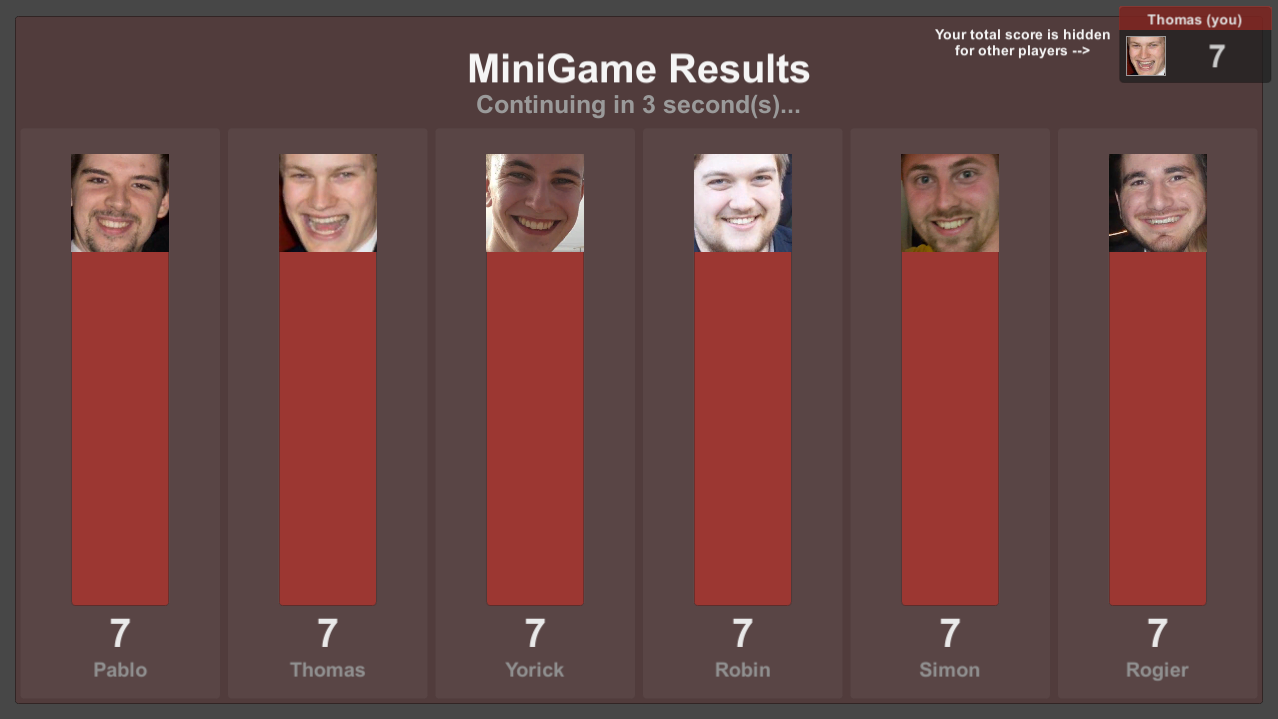
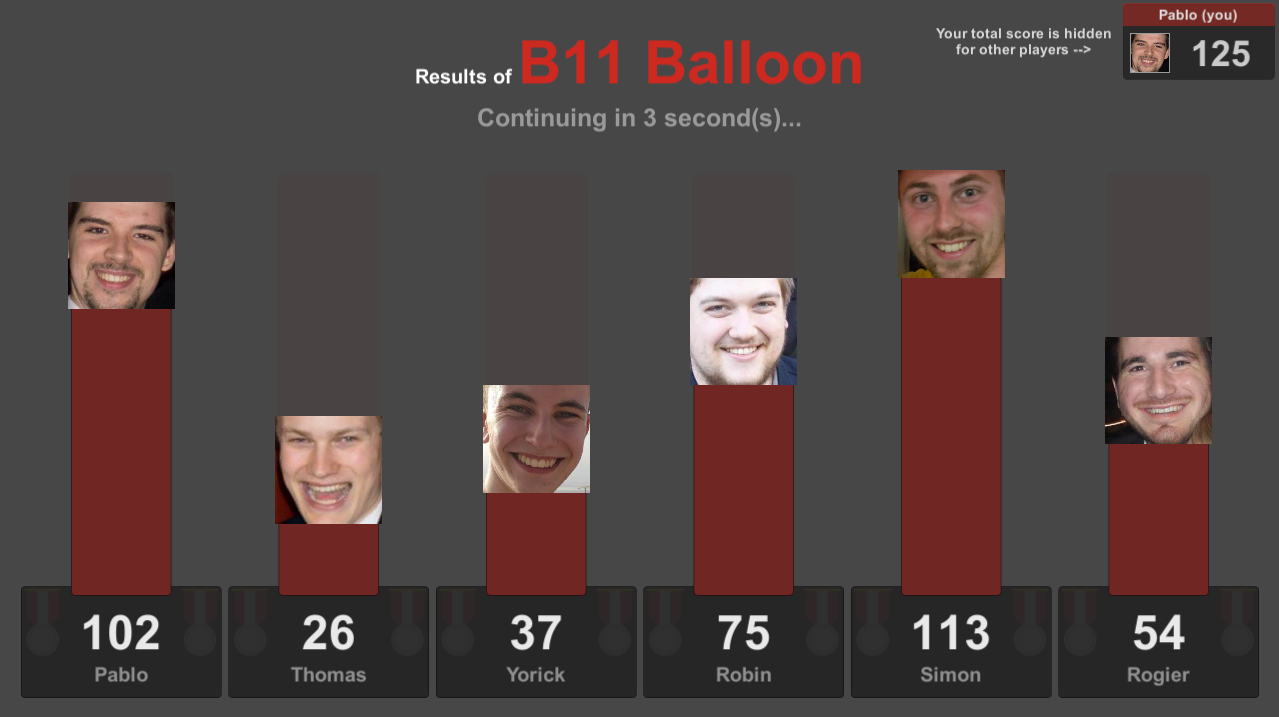
Release 1.1.0

diff --git a/Assets/Scripts/FeatureToggles.cs b/Assets/Scripts/FeatureToggles.cs
@@ -1,6 +1,6 @@
 public static class FeatureToggles {
     // Feature Toggles for during development. Set all to false before release.
-    public static readonly bool NeverMarkMiniGamesCompleted = true;
-    public static readonly bool FirstMiniGameChoiceWins = true;
-    public static readonly bool SingleLetterLogin = true;
+    public static readonly bool NeverMarkMiniGamesCompleted = false;
+    public static readonly bool FirstMiniGameChoiceWins = false;
+    public static readonly bool SingleLetterLogin = false;
 }

diff --git a/Assets/Scripts/Server/B11PartyServer.cs b/Assets/Scripts/Server/B11PartyServer.cs
@@ -9,7 +9,7 @@ using UnityEngine.SceneManagement;
 
 public class B11PartyServer : MonoBehaviour {
     public static readonly int DEFAULT_PORT = 14641;
-    public static readonly Guid GAME_ID = Guid.Parse("11119d77-6145-4732-b30a-fd6f4812e251");
+    public static readonly Guid GAME_ID = Guid.Parse("11d12892-dd03-47d3-8f24-c6d1fd978c4e");
     private static readonly Logging.Logger log = Logging.Logger.For<B11PartyServer>();
 
     private bool serverStarted = false;

diff --git a/Assets/Scripts/KarmanProtocol/KarmanServer.cs b/Assets/Scripts/KarmanProtocol/KarmanServer.cs
@@ -8,7 +8,7 @@ namespace KarmanProtocol {
     public class KarmanServer {
         private static readonly Logger log = Logger.For<KarmanServer>();
 
-        public const string PROTOCOL_VERSION = "0.1.0";
+        public const string PROTOCOL_VERSION = "1.1.0";
 
         private class Client {
             private readonly Guid clientId;

diff --git a/README.md b/README.md
@@ -76,7 +76,7 @@ During the trophy overview phase the clients are presented with their total scor
 ## Mini games
 The project was build with 11 mini games in mind. At the release of `version 1.0.0` the game contained 4 out of these 11 mini games. Since then, new mini games haven been build, mini games have been reworked, and others have not yet been build. The overview below shows the available mini games and at which point they where added to the game.
 
-### (01/11) B11 Balloon (build - not yet released)
+### (01/11) B11 Balloon (release 1.1.0)
 Try to inflate the balloon as big as possible, but don't let it pop!
 
 ![B11 Balloon](Docs/mini-games/b11-balloon.png)
@@ -86,8 +86,8 @@ Clear the table of all red cups by throwing ping pong balls in them.
 
 ![Red Cup](Docs/mini-games/red-cup.png)
 
-### (03/11) Bussen (build - not yet released)
-Avoid all busses, trees, houses, fences, ducks, and more on your way to the other side of town.
+### (03/11) Bussen (release 1.1.0)
+Avoid all buses, trees, houses, fences, ducks, and more on your way to the other side of town.
 
 ![Bussen](Docs/mini-games/bussen.png)
 
@@ -96,18 +96,18 @@ Catch as many bottles of Ketel One as you can. Catch Ketel One Matuur bottles fo
 
 ![Ketel Vangen](Docs/mini-games/ketel-vangen.png)
 
-### (05/11) Arduino (-)
+### (05/11) ?? (-)
 Not implemented.
 
 ### (06/11) ?? (-)
 Not implemented.
 
-### (07/11) Kamerdienst (build - not yet released)
+### (07/11) Kamerdienst (release 1.1.0)
 Collect and deliver all the cookies, beer, coffee, bits, and bananas to the visitors of study association Sticky.
 
 ![Kamerdienst](Docs/mini-games/kamerdienst.png)
 
-### (08/11) Consti (build - not yet released)
+### (08/11) Consti (release 1.1.0)
 Try to avoid the ghosts and pick up as many coins as you can along the way.
 
 ![Consti](Docs/mini-games/consti.png)
@@ -117,8 +117,8 @@ Jump over the obstacles passing by and stay on your feet for the longest amount 
 
 ![Batavieren](Docs/mini-games/batavieren.png)
 
-### (10/11) Kelder Borrel (build - not yet released)
-Keep the bouncing ball in the game and make sure the falling blocks don't hit the ground.
+### (10/11) Kelder Borrel (release 1.1.0)
+Keep the ball bouncing and make sure the falling beers does not hit the ground.
 
 ![Kelder Borrel](Docs/mini-games/kelder-borrel.png)
 
